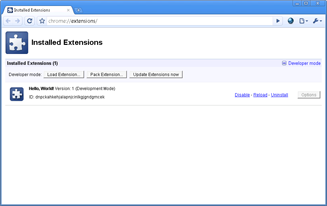
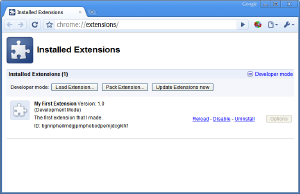
Cleanup pass on Getting Started.
Copyedited it, and updated it to use new icons,
new screenshots, and the new examples directory.
I'll remove the samples directory once the
debugging tutorial is updated.

BUG=none
TEST=none
TBR=aa

Review URL: http://codereview.chromium.org/384136

git-svn-id: http://src.chromium.org/svn/trunk/src@31969 4ff67af0-8c30-449e-8e8b-ad334ec8d88c

Former-commit-id: a18c24d88221548a0b235fd0e6dc85cb31f3dbe5

Changed region(s): [[0.0, 0.0, 1.0, 1.0]]

diff --git a/chrome/common/extensions/docs/static/getstarted.html b/chrome/common/extensions/docs/static/getstarted.html
@@ -3,13 +3,13 @@
 
 <p>
 This tutorial walks you through creating a simple extension.
-You'll add a button to Google Chrome
+You'll add an icon to Google Chrome
 that, when clicked, displays an automatically generated page.
-The button and page will look something like this:
+The icon and page will look something like this:
 </p>
 
 <img src="images/hello-world-small.png"
-  width="300" height="199"
+  width="300" height="243"
   alt="a window with a grid of images related to HELLO WORLD" />
 
 
@@ -46,14 +46,14 @@ to the toolbar of Google Chrome.
     create a text file called <strong><code>manifest.json</code></strong>,
     and put this in it:
 <pre>{
-  &quot;name&quot;: &quot;My First Extension&quot;,
-  &quot;version&quot;: &quot;1.0&quot;,
-  &quot;description&quot;: &quot;The first extension that I made.&quot;,
-  &quot;browser_action&quot;: {
-    &quot;"default_icon": "icon.png"&quot;
+  "name": "My First Extension",
+  "version": "1.0",
+  "description": "The first extension that I made.",
+  "browser_action": {
+    "default_icon": "icon.png"
   },
-  &quot;permissions&quot;: [
-    &quot;http://api.flickr.com/&quot;
+  "permissions": [
+    "http://api.flickr.com/"
   ]
 }</pre>
   </li>
@@ -62,10 +62,10 @@ to the toolbar of Google Chrome.
     <table cellpadding="0" cellspacing="0">
       <tr>
         <td style="text-align:center; border:0;"><a
-          href="samples/hello_world/icon.png"
-            ><img src="samples/hello_world/icon.png"
+          href="examples/tutorials/getstarted/icon.png"
+            ><img src="examples/tutorials/getstarted/icon.png"
               width="19" height="19" border="0"></a><br>
-          <a href="samples/hello_world/icon.png"
+          <a href="examples/tutorials/getstarted/icon.png"
             >Download icon.png</a></td>
       </tr>
     </table>
@@ -73,7 +73,18 @@ to the toolbar of Google Chrome.
   <li> Load the extension.
     <ol type="a">
       <li>
-      Bring up the Extensions management page by clicking the wrench icon, and selecting the "Extensions" menu item.
+      Bring up the extensions management page
+      by clicking the Tools menu
+      <img src="images/toolsmenu.gif" width="43" height="34" alt=""
+           align="absmiddle">
+      and choosing <b>Extensions</b>.
+      </li>
+
+      <li>
+      If <b>Developer mode</b> has a + by it,
+      click the + to add developer information to the page.
+      The + changes to a -,
+      and more buttons and information appear.
       </li>
 
       <li>
@@ -85,23 +96,23 @@ to the toolbar of Google Chrome.
       In the file dialog,
       navigate to your extension's folder
       (<code>c:\myext</code>, for example)
-      and click the <b>OK</b> button.
+      and click <b>OK</b>.
       </li>
     </ol> </li>
   </ol>
 
 <p>
 If your extension is valid,
-information about it
-appears in the <b>Installed extensions</b> part
-of the Extensions page,
+its icon appears next to the address bar,
+and information about the extension
+appears in the extensions page,
 as the following screenshot shows.
 </p>
 
 <p>
 <a href="images/load_after.png"><img
   src="images/load_after_small.png"
-  width="327" height="206" /></a>
+  width="300" height="194" /></a>
 </p>
 
 <h2 id="code">Add code to the extension</h2>
@@ -112,28 +123,30 @@ as the following screenshot shows.
 <pre>
   ...
   "browser_action": {
-    "default_icon": "icon.png",
-    <b style="background:yellow">"popup": "popup.html"</b>
+    "default_icon": "icon.png"<b>,
+    "popup": "popup.html"</b>
   },
   ...
 </pre>
     <p> Inside your extension's folder,
     create a text file called <strong><code>popup.html</code></strong>,
     and add the following code to it:</p>
-    <blockquote> <a href="samples/hello_world/popup.html" onclick="window.open('view-source:' + this.href); return false;">CSS
+    <blockquote> <a href="http://src.chromium.org/viewvc/chrome/trunk/src/chrome/common/extensions/docs/examples/tutorials/getstarted/popup.html?content-type=text/plain"
+    target="_blank">CSS
     and JavaScript code for hello_world</a></blockquote>
   </li>
   <li>
-    Return to <b>chrome://extensions</b>,
+    Return to the extensions management page,
     and click the <b>Reload</b> button
     to load the new version of the extension.</li>
-  <li>Click the button.
-  A popup bubble should come up that displays <code>popup.html</code>. </li>
+  <li>Click the extension's icon.
+  A popup should appear that displays the contents of
+  <code>popup.html</code>. </li>
 </ol>
 <p> It should look something like this:</p>
 
 <img src="images/hello-world.png"
-  width="583" height="387"
+  width="500" height="405"
   alt="a popup with a grid of images related to HELLO WORLD" />
 
 <p> If you don't see the popup,
@@ -172,6 +185,6 @@ Here are some suggestions for what to do next:
   </li>
   <li>
     Look at some
-    <a href="http://sites.google.com/a/chromium.org/dev/developers/design-documents/extensions/samples">sample extensions</a>
+    <a href="samples.html">sample extensions</a>
   </li>
 </ul>

diff --git a/chrome/common/extensions/docs/getstarted.html b/chrome/common/extensions/docs/getstarted.html
@@ -239,12 +239,12 @@
 
 <p>
 This tutorial walks you through creating a simple extension.
-You'll add a button to Google Chrome
+You'll add an icon to Google Chrome
 that, when clicked, displays an automatically generated page.
-The button and page will look something like this:
+The icon and page will look something like this:
 </p>
 
-<img src="images/hello-world-small.png" width="300" height="199" alt="a window with a grid of images related to HELLO WORLD">
+<img src="images/hello-world-small.png" width="300" height="243" alt="a window with a grid of images related to HELLO WORLD">
 
 
 <h2 id="browser">Get your browser ready</h2>
@@ -284,7 +284,7 @@ to the toolbar of Google Chrome.
   "version": "1.0",
   "description": "The first extension that I made.",
   "browser_action": {
-    ""default_icon": "icon.png""
+    "default_icon": "icon.png"
   },
   "permissions": [
     "http://api.flickr.com/"
@@ -295,15 +295,25 @@ to the toolbar of Google Chrome.
     Copy this icon to the same folder:<br>
     <table cellpadding="0" cellspacing="0">
       <tbody><tr>
-        <td style="text-align:center; border:0;"><a href="samples/hello_world/icon.png"><img src="samples/hello_world/icon.png" width="19" height="19" border="0"></a><br>
-          <a href="samples/hello_world/icon.png">Download icon.png</a></td>
+        <td style="text-align:center; border:0;"><a href="examples/tutorials/getstarted/icon.png"><img src="examples/tutorials/getstarted/icon.png" width="19" height="19" border="0"></a><br>
+          <a href="examples/tutorials/getstarted/icon.png">Download icon.png</a></td>
       </tr>
     </tbody></table>
   </li>
   <li> Load the extension.
     <ol type="a">
       <li>
-      Bring up the Extensions management page by clicking the wrench icon, and selecting the "Extensions" menu item.
+      Bring up the extensions management page
+      by clicking the Tools menu
+      <img src="images/toolsmenu.gif" width="43" height="34" alt="" align="absmiddle">
+      and choosing <b>Extensions</b>.
+      </li>
+
+      <li>
+      If <b>Developer mode</b> has a + by it,
+      click the + to add developer information to the page.
+      The + changes to a -,
+      and more buttons and information appear.
       </li>
 
       <li>
@@ -315,21 +325,21 @@ to the toolbar of Google Chrome.
       In the file dialog,
       navigate to your extension's folder
       (<code>c:\myext</code>, for example)
-      and click the <b>OK</b> button.
+      and click <b>OK</b>.
       </li>
     </ol> </li>
   </ol>
 
 <p>
 If your extension is valid,
-information about it
-appears in the <b>Installed extensions</b> part
-of the Extensions page,
+its icon appears next to the address bar,
+and information about the extension
+appears in the extensions page,
 as the following screenshot shows.
 </p>
 
 <p>
-<a href="images/load_after.png"><img src="images/load_after_small.png" width="327" height="206"></a>
+<a href="images/load_after.png"><img src="images/load_after_small.png" width="300" height="194"></a>
 </p>
 
 <h2 id="code">Add code to the extension</h2>
@@ -339,27 +349,28 @@ as the following screenshot shows.
     <p> Edit <code>manifest.json</code> to add the following line:</p>
 <pre>  ...
   "browser_action": {
-    "default_icon": "icon.png",
-    <b style="background:yellow">"popup": "popup.html"</b>
+    "default_icon": "icon.png"<b>,
+    "popup": "popup.html"</b>
   },
   ...
 </pre>
     <p> Inside your extension's folder,
     create a text file called <strong><code>popup.html</code></strong>,
     and add the following code to it:</p>
-    <blockquote> <a href="samples/hello_world/popup.html" onclick="window.open('view-source:' + this.href); return false;">CSS
+    <blockquote> <a href="http://src.chromium.org/viewvc/chrome/trunk/src/chrome/common/extensions/docs/examples/tutorials/getstarted/popup.html?content-type=text/plain" target="_blank">CSS
     and JavaScript code for hello_world</a></blockquote>
   </li>
   <li>
-    Return to <b>chrome://extensions</b>,
+    Return to the extensions management page,
     and click the <b>Reload</b> button
     to load the new version of the extension.</li>
-  <li>Click the button.
-  A popup bubble should come up that displays <code>popup.html</code>. </li>
+  <li>Click the extension's icon.
+  A popup should appear that displays the contents of
+  <code>popup.html</code>. </li>
 </ol>
 <p> It should look something like this:</p>
 
-<img src="images/hello-world.png" width="583" height="387" alt="a popup with a grid of images related to HELLO WORLD">
+<img src="images/hello-world.png" width="500" height="405" alt="a popup with a grid of images related to HELLO WORLD">
 
 <p> If you don't see the popup,
 try the instructions again,
@@ -397,7 +408,7 @@ Here are some suggestions for what to do next:
   </li>
   <li>
     Look at some
-    <a href="http://sites.google.com/a/chromium.org/dev/developers/design-documents/extensions/samples">sample extensions</a>
+    <a href="samples.html">sample extensions</a>
   </li>
 </ul>
 </div>

diff --git a/chrome/common/extensions/docs/examples/tutorials/getstarted/popup.html b/chrome/common/extensions/docs/examples/tutorials/getstarted/popup.html
@@ -1,0 +1,50 @@
+<style>
+body {
+  min-width:357px;
+  overflow-x:hidden;
+}
+
+img {
+  margin:5px;
+  border:2px solid black;
+  vertical-align:middle;
+  width:75px;
+  height:75px;
+}
+</style>
+
+<script>
+var req = new XMLHttpRequest();
+req.open(
+    "GET",
+    "http://api.flickr.com/services/rest/?" +
+        "method=flickr.photos.search&" +
+        "api_key=90485e931f687a9b9c2a66bf58a3861a&" +
+        "text=hello%20world&" +
+        "safe_search=1&" +  // 1 is "safe"
+        "content_type=1&" +  // 1 is "photos only"
+        "sort=relevance&" +  // another good one is "interestingness-desc"
+        "per_page=20",
+    true);
+req.onload = showPhotos;
+req.send(null);
+
+function showPhotos() {
+  var photos = req.responseXML.getElementsByTagName("photo");
+
+  for (var i = 0, photo; photo = photos[i]; i++) {
+    var img = document.createElement("image");
+    img.src = constructImageURL(photo);
+    document.body.appendChild(img);
+  }
+}
+
+// See: http://www.flickr.com/services/api/misc.urls.html
+function constructImageURL(photo) {
+  return "http://farm" + photo.getAttribute("farm") +
+      ".static.flickr.com/" + photo.getAttribute("server") +
+      "/" + photo.getAttribute("id") +
+      "_" + photo.getAttribute("secret") +
+      "_s.jpg";
+}
+</script>
